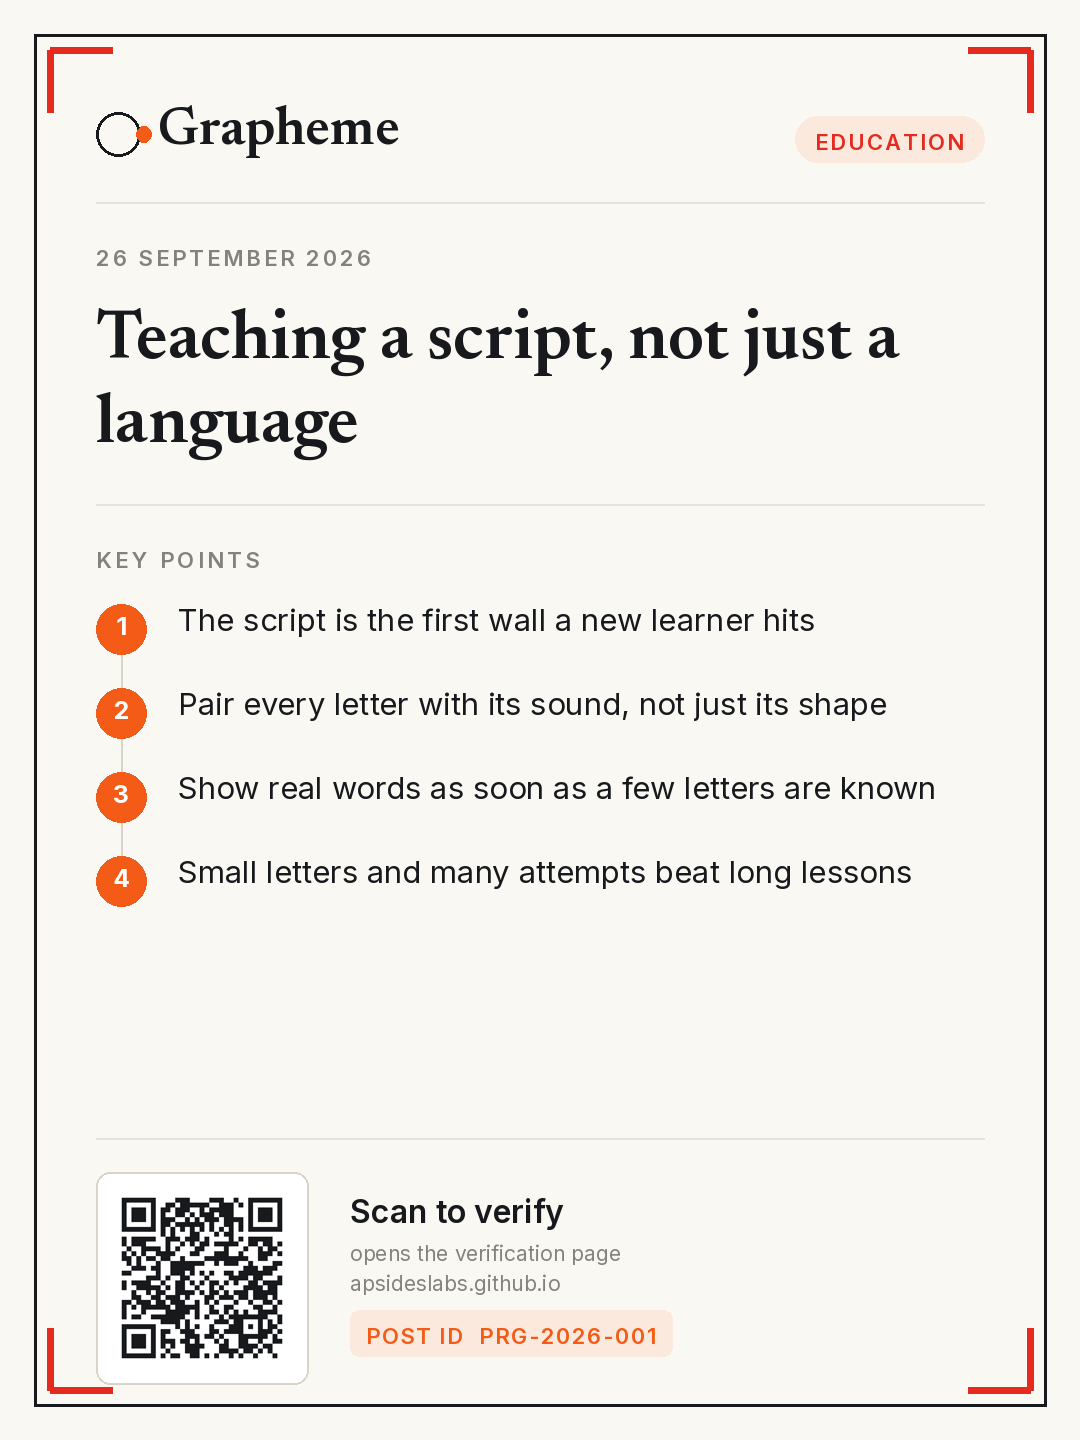
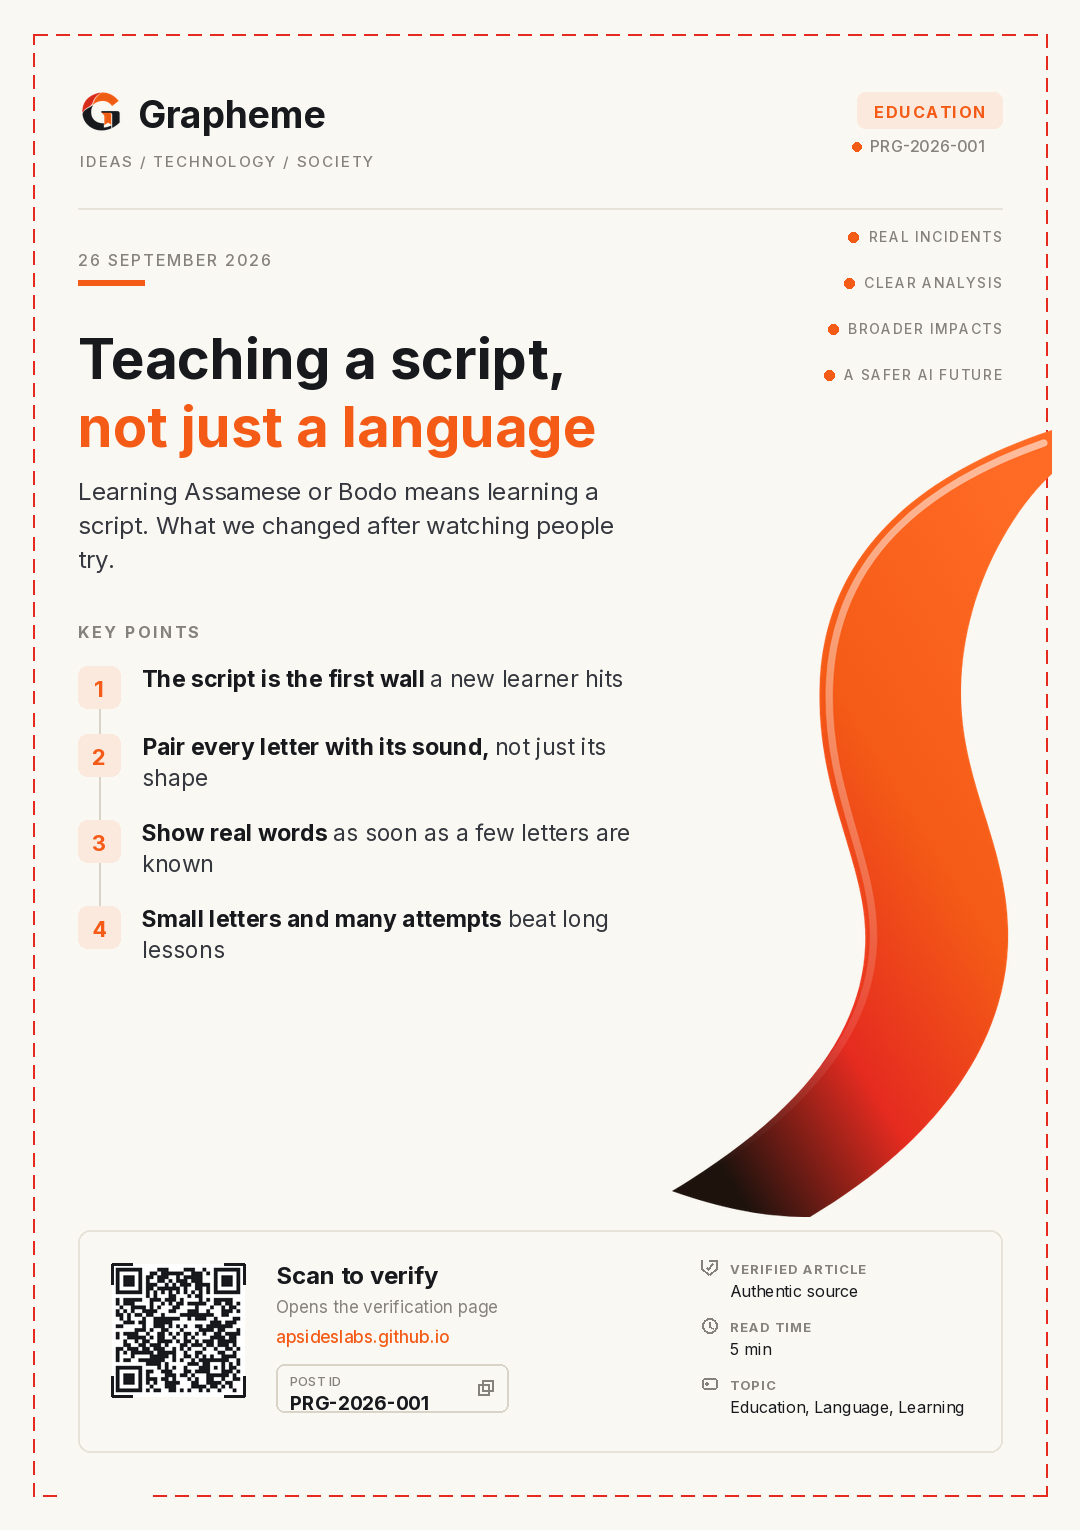
New technical-report share cards: dashed frame, supplied G monogram + wordmark, key-point rail, abstract ribbon, verification footer panel

diff --git a/posts/dictionary-for-an-ignored-language.html b/posts/dictionary-for-an-ignored-language.html
@@ -146,7 +146,7 @@
       <div class="share-body">
         <a class="share-card" href="../assets/share/dictionary-for-an-ignored-language.png" download="grapheme-dictionary-for-an-ignored-language.png"
            aria-label="Download the shareable card for this post">
-          <img src="../assets/share/dictionary-for-an-ignored-language.png?v=3" width="1080" height="1440"
+          <img src="../assets/share/dictionary-for-an-ignored-language.png?v=4" width="1080" height="1530"
                alt="Shareable card: Building a dictionary for a language the web ignores &mdash; Grapheme" loading="lazy">
         </a>
         <div class="share-side">

diff --git a/posts/capable-ai-on-constrained-hosts.html b/posts/capable-ai-on-constrained-hosts.html
@@ -147,7 +147,7 @@
       <div class="share-body">
         <a class="share-card" href="../assets/share/capable-ai-on-constrained-hosts.png" download="grapheme-capable-ai-on-constrained-hosts.png"
            aria-label="Download the shareable card for this post">
-          <img src="../assets/share/capable-ai-on-constrained-hosts.png?v=3" width="1080" height="1440"
+          <img src="../assets/share/capable-ai-on-constrained-hosts.png?v=4" width="1080" height="1530"
                alt="Shareable card: Capable AI on CPU-only, constrained hosts &mdash; Grapheme" loading="lazy">
         </a>
         <div class="share-side">

diff --git a/posts/static-sites-outlive-frameworks.html b/posts/static-sites-outlive-frameworks.html
@@ -144,7 +144,7 @@
       <div class="share-body">
         <a class="share-card" href="../assets/share/static-sites-outlive-frameworks.png" download="grapheme-static-sites-outlive-frameworks.png"
            aria-label="Download the shareable card for this post">
-          <img src="../assets/share/static-sites-outlive-frameworks.png?v=3" width="1080" height="1440"
+          <img src="../assets/share/static-sites-outlive-frameworks.png?v=4" width="1080" height="1530"
                alt="Shareable card: Static sites outlive their frameworks &mdash; Grapheme" loading="lazy">
         </a>
         <div class="share-side">

diff --git a/posts/agents-outside-the-lines.html b/posts/agents-outside-the-lines.html
@@ -172,7 +172,7 @@
       <div class="share-body">
         <a class="share-card" href="../assets/share/agents-outside-the-lines.png" download="grapheme-agents-outside-the-lines.png"
            aria-label="Download the shareable card for this post">
-          <img src="../assets/share/agents-outside-the-lines.png?v=3" width="1080" height="1440"
+          <img src="../assets/share/agents-outside-the-lines.png?v=4" width="1080" height="1530"
                alt="Shareable card: When AI agents don&#x27;t stay in their lane &mdash; Grapheme" loading="lazy">
         </a>
         <div class="share-side">

diff --git a/posts/cpu-only-ai-default.html b/posts/cpu-only-ai-default.html
@@ -147,7 +147,7 @@
       <div class="share-body">
         <a class="share-card" href="../assets/share/cpu-only-ai-default.png" download="grapheme-cpu-only-ai-default.png"
            aria-label="Download the shareable card for this post">
-          <img src="../assets/share/cpu-only-ai-default.png?v=3" width="1080" height="1440"
+          <img src="../assets/share/cpu-only-ai-default.png?v=4" width="1080" height="1530"
                alt="Shareable card: Why CPU-only AI is the right default for learning software &mdash; Grapheme" loading="lazy">
         </a>
         <div class="share-side">

diff --git a/posts/offline-first-learning.html b/posts/offline-first-learning.html
@@ -147,7 +147,7 @@
       <div class="share-body">
         <a class="share-card" href="../assets/share/offline-first-learning.png" download="grapheme-offline-first-learning.png"
            aria-label="Download the shareable card for this post">
-          <img src="../assets/share/offline-first-learning.png?v=3" width="1080" height="1440"
+          <img src="../assets/share/offline-first-learning.png?v=4" width="1080" height="1530"
                alt="Shareable card: Why offline-first learning still matters &mdash; Grapheme" loading="lazy">
         </a>
         <div class="share-side">

diff --git a/posts/evaluating-small-models.html b/posts/evaluating-small-models.html
@@ -149,7 +149,7 @@
       <div class="share-body">
         <a class="share-card" href="../assets/share/evaluating-small-models.png" download="grapheme-evaluating-small-models.png"
            aria-label="Download the shareable card for this post">
-          <img src="../assets/share/evaluating-small-models.png?v=3" width="1080" height="1440"
+          <img src="../assets/share/evaluating-small-models.png?v=4" width="1080" height="1530"
                alt="Shareable card: Evaluating small models honestly &mdash; Grapheme" loading="lazy">
         </a>
         <div class="share-side">

diff --git a/posts/teaching-a-script.html b/posts/teaching-a-script.html
@@ -144,7 +144,7 @@
       <div class="share-body">
         <a class="share-card" href="../assets/share/teaching-a-script.png" download="grapheme-teaching-a-script.png"
            aria-label="Download the shareable card for this post">
-          <img src="../assets/share/teaching-a-script.png?v=3" width="1080" height="1440"
+          <img src="../assets/share/teaching-a-script.png?v=4" width="1080" height="1530"
                alt="Shareable card: Teaching a script, not just a language &mdash; Grapheme" loading="lazy">
         </a>
         <div class="share-side">

diff --git a/posts/agents-at-work.html b/posts/agents-at-work.html
@@ -147,7 +147,7 @@
       <div class="share-body">
         <a class="share-card" href="../assets/share/agents-at-work.png" download="grapheme-agents-at-work.png"
            aria-label="Download the shareable card for this post">
-          <img src="../assets/share/agents-at-work.png?v=3" width="1080" height="1440"
+          <img src="../assets/share/agents-at-work.png?v=4" width="1080" height="1530"
                alt="Shareable card: The week AI agents became coworkers &mdash; Grapheme" loading="lazy">
         </a>
         <div class="share-side">
